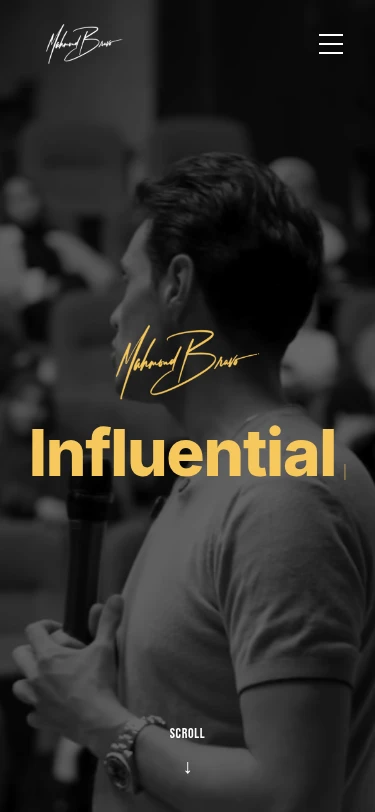
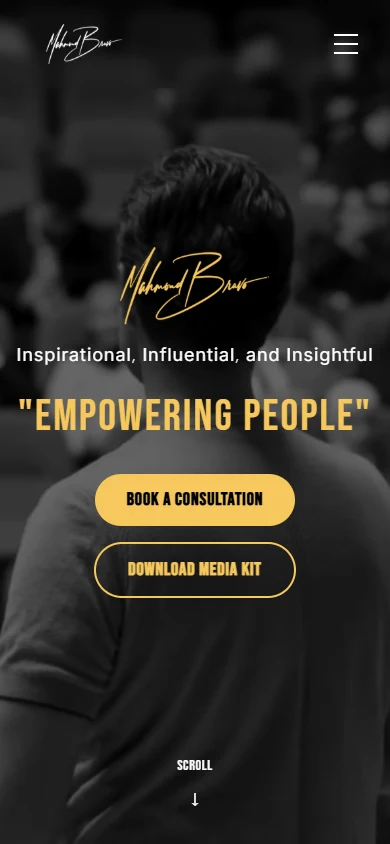
feat: refresh portfolio projects

diff --git a/src/lib/constants.ts b/src/lib/constants.ts
@@ -138,6 +138,32 @@ export const PROJECTS = {
     title: 'FEATURED PROJECTS',
     items: [
         {
+            title: 'Ahmed Rammah',
+            slug: 'ahmed-rammah',
+            category: 'Coaching & Psychology Platform',
+            description:
+                'A bilingual coaching platform that combines editorial storytelling, structured services, booking, and business operations.',
+            longDescription: 'Ahmed Rammah is a full-stack coaching and psychology platform built around his Decode methodology. The public experience presents his work through bold editorial storytelling, while the operational layer connects bilingual content, service management, capacity-aware booking, payments, and administration in one coherent product.',
+            image: '/images/projects/ahmed-rammah.webp',
+            color: '#0C4651',
+            tools: ['Next.js 16', 'Express', 'PostgreSQL', 'Drizzle ORM'],
+            results: ['Bilingual editorial public experience', 'CMS-managed services and content', 'Capacity-aware booking and payment workflows'],
+            liveUrl: 'https://ahmedrammah.com/',
+        },
+        {
+            title: 'Coach Hossam Ibrahim',
+            slug: 'coach-hossam-ibrahim',
+            category: 'Executive Coaching Platform',
+            description:
+                'An Arabic-first leadership and training platform with bilingual content, booking, commerce, and a custom admin workspace.',
+            longDescription: 'Coach Hossam Ibrahim is a bilingual platform for executive leadership consulting, professional training, and digital content. It brings together an Arabic-first public experience, consultation booking, paid sessions, content publishing, calendar coordination, transactional email, and a custom operational dashboard.',
+            image: '/images/projects/coach-hossam-ibrahim.webp',
+            color: '#8D1F24',
+            tools: ['Next.js', 'Fastify', 'PostgreSQL', 'Kashier'],
+            results: ['Arabic-first responsive experience', 'Integrated booking and payment journeys', 'Custom CMS and admin operations'],
+            liveUrl: 'https://hossamibrahim.net/',
+        },
+        {
             title: 'JBL Flip 6',
             slug: 'jbl-flip-6',
             category: 'Product Landing Page',
@@ -205,14 +231,14 @@ export const PROJECTS = {
         {
             title: 'Mahmoud Bravo',
             slug: 'mahmoud-bravo',
-            category: 'Coaching & Consulting',
+            category: 'Corporate Training Platform',
             description:
-                'A bold, modern personal brand platform for business coaching and thought leadership.',
-            longDescription: 'The Mahmoud Bravo platform acts as a central hub for his courses, coaching services, and speaking engagements. The design uses strong contrast and authoritative typography to reflect his expertise in the market.',
+                'A cinematic personal-brand platform for an international corporate trainer, rebuilt as an immersive editorial experience.',
+            longDescription: 'Mahmoud Bravo V2 turns a corporate training profile into a cinematic digital story. The experience combines a choreographed video entrance, bold editorial typography, scroll-led storytelling, and responsive motion to present Bravo\'s programs, background, and impact with the energy of a premium campaign site.',
             image: '/images/projects/mahmoud-bravo.webp',
             color: '#E63946',
-            tools: ['Next.js', 'Tailwind CSS', 'Framer Motion', 'Stripe'],
-            results: ['Seamless course enrollment flow', 'Modernized brand identity', 'High-ticket client close rate up 25%'],
+            tools: ['Next.js 16', 'GSAP', 'TypeScript', 'Vercel'],
+            results: ['Cinematic multi-format video intro', 'Scroll-driven editorial brand story', 'Responsive motion across desktop and mobile'],
             liveUrl: 'https://www.mahmoudbravo.com/',
         },
         {

diff --git a/src/app/portfolio/[slug]/ProjectClient.tsx b/src/app/portfolio/[slug]/ProjectClient.tsx
@@ -2,6 +2,7 @@
 
 import { useEffect, useRef } from 'react';
 import Image from 'next/image';
+import Link from 'next/link';
 import gsap from 'gsap';
 import { ScrollTrigger } from 'gsap/ScrollTrigger';
 import { SITE } from '@/lib/constants';
@@ -19,12 +20,12 @@ interface ProjectData {
     slug: string;
     category: string;
     description: string;
-    long_description: string;
+    longDescription: string;
     image: string;
     color: string;
     tools: string[];
     results: string[];
-    live_url?: string;
+    liveUrl?: string;
 }
 
 export default function ProjectClient({ project }: { project: ProjectData }) {
@@ -60,7 +61,7 @@ export default function ProjectClient({ project }: { project: ProjectData }) {
                         <div className={styles.heroOverlay} />
                     </div>
                     <div className={styles.heroContent}>
-                        <a href="/portfolio" className={styles.backLink} data-reveal>← Back to Portfolio</a>
+                        <Link href="/portfolio" className={styles.backLink} data-reveal>← Back to Portfolio</Link>
                         <span className={styles.category} data-reveal>{project.category}</span>
                         <h1 className={styles.title} data-reveal>{project.title}</h1>
                         <div className={styles.meta} data-reveal>
@@ -68,9 +69,9 @@ export default function ProjectClient({ project }: { project: ProjectData }) {
                                 <span key={i} className={styles.metaItem}>{tool}</span>
                             ))}
                         </div>
-                        {project.live_url && (
+                        {project.liveUrl && (
                             <a
-                                href={project.live_url}
+                                href={project.liveUrl}
                                 target="_blank"
                                 rel="noopener noreferrer"
                                 className={styles.liveLink}
@@ -85,13 +86,13 @@ export default function ProjectClient({ project }: { project: ProjectData }) {
                 <MockupSection
                     desktopSrc={`/images/projects/${project.slug}-desktop.webp`}
                     mobileSrc={`/images/projects/${project.slug}-mobile.webp`}
-                    liveUrl={project.live_url}
+                    liveUrl={project.liveUrl}
                 />
 
                 {/* Body */}
                 <div className={styles.body}>
                     <div className={styles.bodyInner} ref={bodyRef}>
-                        <p className={styles.bodyText}>{project.long_description}</p>
+                        <p className={styles.bodyText}>{project.longDescription}</p>
 
                         {/* Tools */}
                         <div className={styles.sectionBlock}>

diff --git a/docs/superpowers/plans/2026-08-28-portfolio-projects-refresh.md b/docs/superpowers/plans/2026-08-28-portfolio-projects-refresh.md
@@ -14,7 +14,8 @@
 - Preserve unrelated working-tree changes and untracked files.
 - Put Rammah and Coach Hossam first; preserve Mahmoud Bravo's existing slug.
 - Do not invent business metrics.
-- Use `https://rammah.vercel.app` only if reachable; omit Coach Hossam's live URL while deployments fail.
+- Use the official `https://ahmedrammah.com/` and `https://hossamibrahim.net/` sites for links and screenshots.
+- Wait for Rammah's loading screen to finish before capturing images.
 
 ---
 
@@ -69,11 +70,11 @@ Use evidence-based copy and these stacks:
 ```ts
 // Ahmed Rammah
 tools: ['Next.js 16', 'Express', 'PostgreSQL', 'Drizzle ORM']
-liveUrl: 'https://rammah.vercel.app'
+liveUrl: 'https://ahmedrammah.com/'
 
 // Coach Hossam Ibrahim
 tools: ['Next.js', 'Fastify', 'PostgreSQL', 'Kashier']
-// No liveUrl until a deployment succeeds.
+liveUrl: 'https://hossamibrahim.net/'
 ```
 
 Describe delivered capabilities rather than unsupported conversion numbers: bilingual public experience, CMS/admin operations, booking/payment workflows, calendar/email integrations, and responsive editorial UI.
@@ -107,20 +108,12 @@ Use `project.longDescription` and `project.liveUrl` in the hero, mockup, and bod
 - Modify: `public/images/projects/mahmoud-bravo-mobile.webp`
 
 **Interfaces:**
-- Consumes: Home pages from `D:\projects\rammah\rammah-next`, `D:\coash_hossam_ibrahim\apps\web`, and `D:\bravo\site`.
+- Consumes: Official home pages at `https://ahmedrammah.com/`, `https://hossamibrahim.net/`, and `https://www.mahmoudbravo.com/`.
 - Produces: Existing portfolio image naming contract for cover, desktop mockup, and mobile mockup.
 
-- [ ] **Step 1: Start each local frontend on a free port**
+- [ ] **Step 1: Capture with installed Puppeteer and Chrome**
 
-Run the existing `npm run dev` command in each frontend directory with an explicit port. Do not edit the source repositories.
-
-- [ ] **Step 2: Capture with installed Puppeteer and Chrome**
-
-Use Chrome at `C:\Program Files\Google\Chrome\Application\chrome.exe`. Capture the loaded home page at `1440x1000` and `390x844`, save WebP at quality 88, and reuse the desktop capture as the card cover. Wait for fonts/images and any intro animation to settle before capture.
-
-- [ ] **Step 3: Stop only the servers started for capture**
-
-Track their process IDs and terminate those exact processes after screenshots are written.
+Use Chrome at `C:\Program Files\Google\Chrome\Application\chrome.exe`. Capture the loaded official home page at `1440x1000` and `390x844`, save WebP at quality 88, and reuse the desktop capture as the card cover. Wait for fonts/images and the Rammah intro/loading animation to settle before capture.
 
 ### Task 4: Verify and commit
 
@@ -148,7 +141,7 @@ Expected: all commands exit 0.
 
 - [ ] **Step 2: Run browser smoke checks**
 
-Start the Mekky app and verify `/portfolio`, `/portfolio/ahmed-rammah`, `/portfolio/coach-hossam-ibrahim`, and `/portfolio/mahmoud-bravo`. Confirm cards, responsive images, descriptions, stacks, results, Rammah/Bravo preview links, and Coach's missing preview link.
+Start the Mekky app and verify `/portfolio`, `/portfolio/ahmed-rammah`, `/portfolio/coach-hossam-ibrahim`, and `/portfolio/mahmoud-bravo`. Confirm cards, responsive images, descriptions, stacks, results, and all three official preview links.
 
 - [ ] **Step 3: Commit only intentional files**
 

diff --git a/docs/superpowers/specs/2026-08-28-portfolio-projects-refresh-design.md b/docs/superpowers/specs/2026-08-28-portfolio-projects-refresh-design.md
@@ -13,12 +13,12 @@ Reuse the current `PROJECTS.items` data model and existing `/portfolio/[slug]` d
 - Add `Ahmed Rammah` and `Coach Hossam Ibrahim` as the first two portfolio items so the newest shipped work appears first.
 - Keep the existing Mahmoud Bravo slug and update its copy, stack, results, images, and live URL to the V2 project.
 - Use concise, evidence-based project copy derived from each source repository. Do not invent business metrics.
-- Use `https://rammah.vercel.app` for Rammah if it is reachable during verification.
-- Omit Coach Hossam's live URL while its available Vercel deployments are failing. The detail page still renders without a Live Preview button.
+- Use the official `https://ahmedrammah.com/` site for Rammah's Live Preview and screenshots.
+- Use the official `https://hossamibrahim.net/` site for Coach Hossam's Live Preview and screenshots.
 
 ## Images
 
-Capture each project from its local frontend at desktop and mobile viewport sizes. Produce the three files expected by the current portfolio:
+Capture each project from its official live site at desktop and mobile viewport sizes. Wait for Rammah's loading screen to finish before capture. Produce the three files expected by the current portfolio:
 
 - `/images/projects/<slug>.webp`
 - `/images/projects/<slug>-desktop.webp`
@@ -34,6 +34,6 @@ Update `ProjectClient` to consume the camelCase fields already used by `PROJECTS
 
 - Confirm both new cards appear first on `/portfolio` and Bravo still resolves at its existing slug.
 - Confirm all three detail pages render their copy, tools, results, and responsive mockups.
-- Confirm Rammah's Live Preview works when reachable and Coach shows no broken preview link.
+- Confirm both official Live Preview links work.
 - Run targeted lint/type checks and a production build or the closest available project checks.
 - Preserve all unrelated working-tree changes and untracked files.
